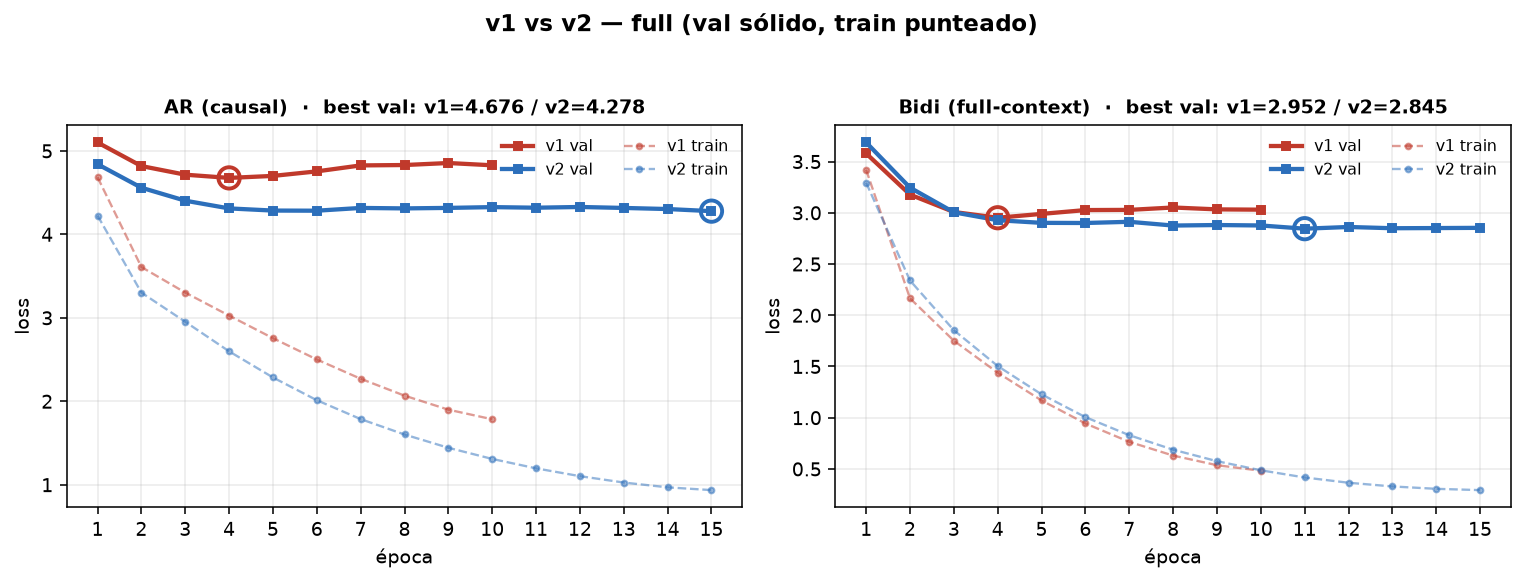
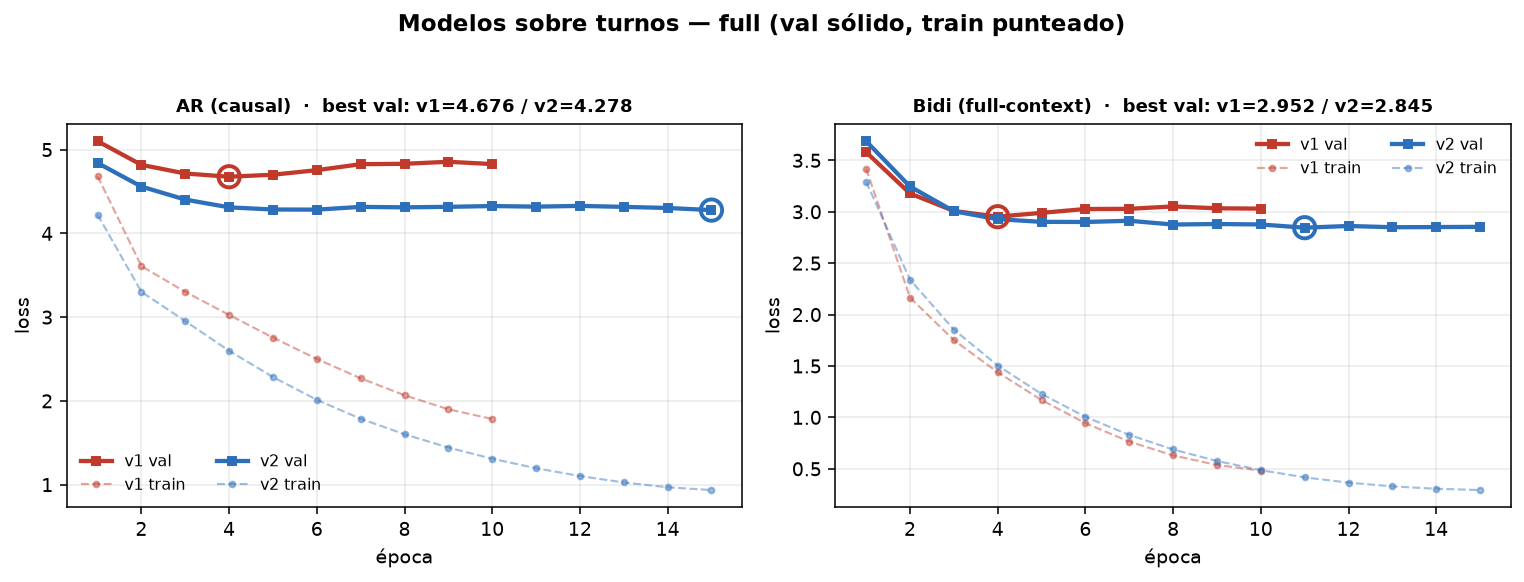
Add v3 notebook; unify v2/v3 training/docs/plots
Introduce a new v3 training notebook (BERT-base literal) and refactor v2 training to parameterize architecture size and training "recipe". Update docs (docs/model/v2.md, README) to document v1/v2/v3 distinctions, versioning and tagging, and add overwrite guards so checkpoints/logs are not accidentally replaced. Update plot_full_results.py to auto-detect and compare available versions (v1/v2/v3) and produce combined figures; update training notebooks to record `tag`/`recipe`/layers/heads in trainlog.jsonl. Binary training-curve figures were also updated.

diff --git a/packages/contextual-turn-embeddings/training/contextual-turn-encoder-base/plot_full_results.py b/packages/contextual-turn-embeddings/training/contextual-turn-encoder-base/plot_full_results.py
@@ -1,5 +1,7 @@
 #!/usr/bin/env python3
-"""Curvas full (train+val) del v2 y comparación v1 vs v2. Lee los trainlog.jsonl.
+"""Curvas full (train+val) de los modelos presentes (v1 / v2 / v3) y su comparación.
+
+Auto-detecta qué versiones existen en ``models/`` → cuando entrenes v3, se suma sola.
 
     python plot_full_results.py
 Salida: figures/v2_full_curves.png  +  figures/v1_vs_v2_full_curves.png
@@ -15,45 +17,62 @@ import matplotlib.pyplot as plt
 M = Path(__file__).resolve().parent.parent.parent / "models"
 FIG = Path(__file__).resolve().parent / "figures"
 FIG.mkdir(exist_ok=True)
-RED, BLUE = "#c0392b", "#2c6fbb"
+NAME = "contextual-turn-encoder-base"
+# (label, infijo de carpeta, color)
+VERSIONS = [("v1", "", "#c0392b"), ("v2", "v2-", "#2c6fbb"), ("v3", "v3-", "#2e8b57")]
+MODES = [("ar", "AR (causal)"), ("bidi", "Bidi (full-context)")]
 
 
-def curve(name):
-    rows = [json.loads(l) for l in (M / name / "trainlog.jsonl").read_text().splitlines() if l.strip()]
+def curve(infix, mode):
+    p = M / f"{NAME}-{infix}{mode}-full" / "trainlog.jsonl"
+    if not p.exists():
+        return None
+    rows = [json.loads(l) for l in p.read_text().splitlines() if l.strip()]
     return ([r["epoch"] for r in rows], [r["train_loss"] for r in rows], [r["val_loss"] for r in rows])
 
 
 plt.rcParams.update({"figure.facecolor": "white", "axes.facecolor": "white", "font.size": 10})
+present = [(lab, inf, col) for lab, inf, col in VERSIONS if curve(inf, "ar") or curve(inf, "bidi")]
+print("versiones presentes:", [p[0] for p in present])
 
-# --- Figura 1: curvas v2 (train + val) ---
+# --- Figura 1: comparación (val sólido, train punteado) — overlay de las versiones presentes ---
 fig, axes = plt.subplots(1, 2, figsize=(11, 4.2))
-for ax, mode, ti in [(axes[0], "ar", "AR (causal)"), (axes[1], "bidi", "Bidi (full-context)")]:
-    e, tr, va = curve(f"contextual-turn-encoder-base-v2-{mode}-full")
-    ax.plot(e, tr, "-o", color=BLUE, lw=2, ms=4, label="train")
-    ax.plot(e, va, "-s", color=RED, lw=2, ms=4, label="val")
-    b = min(va); ax.scatter([e[va.index(b)]], [b], s=130, facecolors="none", edgecolors=RED, lw=2, zorder=5)
-    ax.annotate(f"best ep{e[va.index(b)]}\nval {b:.3f}", xy=(e[va.index(b)], b), xytext=(6, 12),
-                textcoords="offset points", color=RED, fontsize=8, fontweight="bold")
-    ax.set_title(f"v2 · {ti}", fontsize=11, fontweight="bold"); ax.set_xlabel("época"); ax.set_ylabel("loss")
-    ax.set_xticks(e); ax.grid(alpha=0.25); ax.legend(frameon=False)
-fig.suptitle("v2 (BERT-fiel) — curvas de entrenamiento full", fontsize=12, fontweight="bold")
-fig.tight_layout(rect=(0, 0, 1, 0.95)); fig.savefig(FIG / "v2_full_curves.png", dpi=140, bbox_inches="tight")
-
-# --- Figura 2: comparación v1 vs v2 (val sólido, train punteado) ---
-fig, axes = plt.subplots(1, 2, figsize=(11, 4.2))
-for ax, mode, ti in [(axes[0], "ar", "AR (causal)"), (axes[1], "bidi", "Bidi (full-context)")]:
-    e1, t1, v1 = curve(f"contextual-turn-encoder-base-{mode}-full")
-    e2, t2, v2 = curve(f"contextual-turn-encoder-base-v2-{mode}-full")
-    ax.plot(e1, v1, "-s", color=RED, lw=2.2, ms=4, label="v1 val")
-    ax.plot(e2, v2, "-s", color=BLUE, lw=2.2, ms=4, label="v2 val")
-    ax.plot(e1, t1, "--o", color=RED, lw=1.2, ms=3, alpha=0.5, label="v1 train")
-    ax.plot(e2, t2, "--o", color=BLUE, lw=1.2, ms=3, alpha=0.5, label="v2 train")
-    b1, b2 = min(v1), min(v2)
-    ax.scatter([e1[v1.index(b1)]], [b1], s=120, facecolors="none", edgecolors=RED, lw=2, zorder=5)
-    ax.scatter([e2[v2.index(b2)]], [b2], s=120, facecolors="none", edgecolors=BLUE, lw=2, zorder=5)
-    ax.set_title(f"{ti}  ·  best val: v1={b1:.3f} / v2={b2:.3f}", fontsize=10, fontweight="bold")
+for ax, (mode, ti) in zip(axes, MODES):
+    bests = []
+    for lab, inf, col in present:
+        c = curve(inf, mode)
+        if not c:
+            continue
+        e, tr, va = c
+        ax.plot(e, va, "-s", color=col, lw=2.2, ms=4, label=f"{lab} val")
+        ax.plot(e, tr, "--o", color=col, lw=1.1, ms=3, alpha=0.45, label=f"{lab} train")
+        b = min(va)
+        ax.scatter([e[va.index(b)]], [b], s=120, facecolors="none", edgecolors=col, lw=2, zorder=5)
+        bests.append(f"{lab}={b:.3f}")
+    ax.set_title(f"{ti}  ·  best val: " + " / ".join(bests), fontsize=9.5, fontweight="bold")
     ax.set_xlabel("época"); ax.set_ylabel("loss"); ax.grid(alpha=0.25)
-    ax.set_xticks(range(1, max(max(e1), max(e2)) + 1)); ax.legend(frameon=False, fontsize=8, ncol=2)
-fig.suptitle("v1 vs v2 — full (val sólido, train punteado)", fontsize=12, fontweight="bold")
+    ax.legend(frameon=False, fontsize=8, ncol=len(present))
+fig.suptitle("Modelos sobre turnos — full (val sólido, train punteado)", fontsize=12, fontweight="bold")
 fig.tight_layout(rect=(0, 0, 1, 0.95)); fig.savefig(FIG / "v1_vs_v2_full_curves.png", dpi=140, bbox_inches="tight")
-print("escritas:", FIG / "v2_full_curves.png", "|", FIG / "v1_vs_v2_full_curves.png")
+
+# --- Figura 2: curvas individuales (train + val) de las versiones BERT-fiel presentes (v2/v3) ---
+bert_present = [p for p in present if p[0] in ("v2", "v3")]
+if bert_present:
+    fig, axes = plt.subplots(len(bert_present), 2, figsize=(11, 4.0 * len(bert_present)), squeeze=False)
+    for row, (lab, inf, col) in enumerate(bert_present):
+        for ax, (mode, ti) in zip(axes[row], MODES):
+            c = curve(inf, mode)
+            if not c:
+                ax.set_visible(False); continue
+            e, tr, va = c
+            ax.plot(e, tr, "-o", color=col, lw=2, ms=4, label="train")
+            ax.plot(e, va, "-s", color="#c0392b", lw=2, ms=4, label="val")
+            b = min(va); ax.scatter([e[va.index(b)]], [b], s=130, facecolors="none", edgecolors="#c0392b", lw=2, zorder=5)
+            ax.annotate(f"best ep{e[va.index(b)]}\nval {b:.3f}", xy=(e[va.index(b)], b), xytext=(6, 12),
+                        textcoords="offset points", color="#c0392b", fontsize=8, fontweight="bold")
+            ax.set_title(f"{lab} · {ti}", fontsize=11, fontweight="bold")
+            ax.set_xlabel("época"); ax.set_ylabel("loss"); ax.set_xticks(e); ax.grid(alpha=0.25)
+            ax.legend(frameon=False)
+    fig.suptitle("Curvas de entrenamiento (BERT-fiel) — full", fontsize=12, fontweight="bold")
+    fig.tight_layout(rect=(0, 0, 1, 0.96)); fig.savefig(FIG / "v2_full_curves.png", dpi=140, bbox_inches="tight")
+print("escritas:", FIG / "v1_vs_v2_full_curves.png", "|", FIG / "v2_full_curves.png")

diff --git a/packages/contextual-turn-embeddings/training/contextual-turn-encoder-base/README.md b/packages/contextual-turn-embeddings/training/contextual-turn-encoder-base/README.md
@@ -40,6 +40,25 @@ Modo de atención × escala de corpus:
 - Arquitectura: 768-d salida, `num_heads=8`, `max_turns=64`, speaker embeddings on; `num_layers=6`
   para los modelos full, `4` para los 1M. Detalle en [`config.yaml`](config.yaml).
 
+## Las tres versiones del modelo (v1 / v2 / v3)
+
+Eje **arquitectura** × eje **receta de entrenamiento**. Las tres se versionan; **ningún registro se
+pisa** (cada una en su carpeta `models/…-{v1,v2,v3}-…`; las notebooks tienen un guard anti-pisado).
+
+| Modelo | Arquitectura | Receta | Tamaño | Notebook |
+|---|---|---|---|---|
+| **v1** | custom (pre-LN + residual) | propia (`lr 2e-4`, AdamW uniforme) | 6 capas / 8 heads | `02` |
+| **v2** | **BERT-fiel** (post-LN) | **la del v1** (`lr 2e-4`, AdamW uniforme) | 6 capas / 8 heads | `03` |
+| **v3** | **BERT-base literal** | **la de BERT** (`lr 1e-4`, no-decay en bias/LN) | **12 capas / 12 heads / 3072** | `04` |
+
+- **v1 → v2** aísla la **arquitectura** (custom vs BERT-fiel; misma receta y tamaño).
+- **v2 → v3** suma la **receta de BERT** + el **tamaño BERT-base**: el "simil-BERT lo más fiel
+  posible", punto de partida para innovar (Fase 2: codebook).
+- En `config.json`, `arch` distingue solo **arquitectura** → v1=`"v1"`, **v2 y v3 = `"v2"`** (misma
+  estructura de módulos `BertTurn*`). Cada checkpoint anota `tag`/`recipe`/`n_layers` en `trainlog.jsonl`.
+- **v3 ≈ 87.5M params** = BERT-base (110M) **menos la tabla de embeddings de vocabulario (~23M)**: no
+  la tenemos porque la entrada es **continua** (turnos, no tokens). El stack Transformer es BERT-base exacto.
+
 ## Held-out (evaluación inductiva limpia)
 Para no contaminar el benchmark ANN, se **excluyen del entrenamiento** los diálogos cuyos turnos
 son *queries* del benchmark. [`heldout.py`](heldout.py) reproduce exactamente (semilla **42**) los
@@ -55,10 +74,13 @@ los `dialogue_id` correspondientes.
 2. **[`02_train_contextual_m2.ipynb`](02_train_contextual_m2.ipynb)** — en el **M2/MPS**: entrena
    AR y Bidi leyendo las bases vía **memmap** (`DialogueDataset(lazy=True)`; no entran en RAM),
    excluyendo el held-out. Guarda con `save_pretrained` (config.json + model.safetensors + log).
-3. **[`03_train_contextual_v2_m2.ipynb`](03_train_contextual_v2_m2.ipynb)** — **gemela del v2**
-   (BERT-fiel): idéntica a la 02 pero con `build_model(arch="v2")`. Para la **comparación controlada
-   v1 ↔ v2** (mismos datos/objetivo, solo cambia la arquitectura). Ver
-   [`docs/model/v2.md`](../../docs/model/v2.md) y `conversational-ann/results/v1_vs_v2_results.md`.
+3. **[`03_train_contextual_v2_m2.ipynb`](03_train_contextual_v2_m2.ipynb)** — **v2**: arquitectura
+   BERT-fiel (`build_model(arch="v2")`) con la **receta del v1** (`lr 2e-4`, 6 capas/8 heads). Ya
+   entrenado; queda como reproductor.
+4. **[`04_train_contextual_v3_m2.ipynb`](04_train_contextual_v3_m2.ipynb)** — **v3**: **BERT-base
+   literal** (12 capas/12 heads/3072) con la **receta de pretraining de BERT** (`lr 1e-4`, AdamW sin
+   weight decay en bias/LayerNorm). El punto de partida fiel desde el cual innovar. Ver
+   [`docs/model/v2.md`](../../docs/model/v2.md).
 
 ## Curvas de entrenamiento
 

diff --git a/packages/contextual-turn-embeddings/docs/model/v2.md b/packages/contextual-turn-embeddings/docs/model/v2.md
@@ -3,8 +3,11 @@
 El **v2** (`model/v2.py`, clase `ContextualTurnModelV2`) es un **port lo más fiel
 posible** de la implementación de BERT
 ([`modeling_bert.py`](https://github.com/huggingface/transformers/blob/main/src/transformers/models/bert/modeling_bert.py))
-aplicada **sobre turnos de diálogo** en vez de tokens. Sirve como **baseline estándar** contra el
-cual comparar el v1 (`model/v1.py`, un Transformer custom). El v1 queda **intacto**.
+aplicada **sobre turnos de diálogo** en vez de tokens. **Es el modelo** (no un brazo de comparación):
+la arquitectura BERT-fiel sobre la que construimos. Se entrena en dos variantes —
+**v2** (receta del v1) y **v3** (**BERT-base literal** 12 capas/12 heads + receta de BERT)— y convive
+con el **v1** custom previo (`model/v1.py`), que queda **intacto** y versionado. El cuadro de las tres
+versiones está en el [model card](../../training/contextual-turn-encoder-base/README.md).
 
 ## En simple (TL;DR)
 

diff --git a/packages/conversational-ann/results/v1_vs_v2_results.md b/packages/conversational-ann/results/v1_vs_v2_results.md
@@ -5,6 +5,11 @@ held-out (semilla 42), mismo objetivo, **mismo optimizador** (`lr=2e-4`), misma 
 cambia es la arquitectura** (v1 custom pre-LN + residual ↔ v2 BERT-fiel post-LN). v1 = 10 épocas, v2 = 15.
 
 > (La comparación previa en `1m` queda superada por esta, sobre todos los datos.)
+>
+> **Viene el v3** — BERT-base literal (12 capas/12 heads) con la receta de pretraining de BERT
+> (`lr 1e-4`, no-decay): el simil-BERT más fiel posible. Cuando termine de entrenar, `plot_full_results.py`
+> lo suma solo a estas curvas (v1/v2/v3). Ver el cuadro de las tres versiones en el
+> [model card](../../contextual-turn-embeddings/training/contextual-turn-encoder-base/README.md).
 
 ## Curvas
 